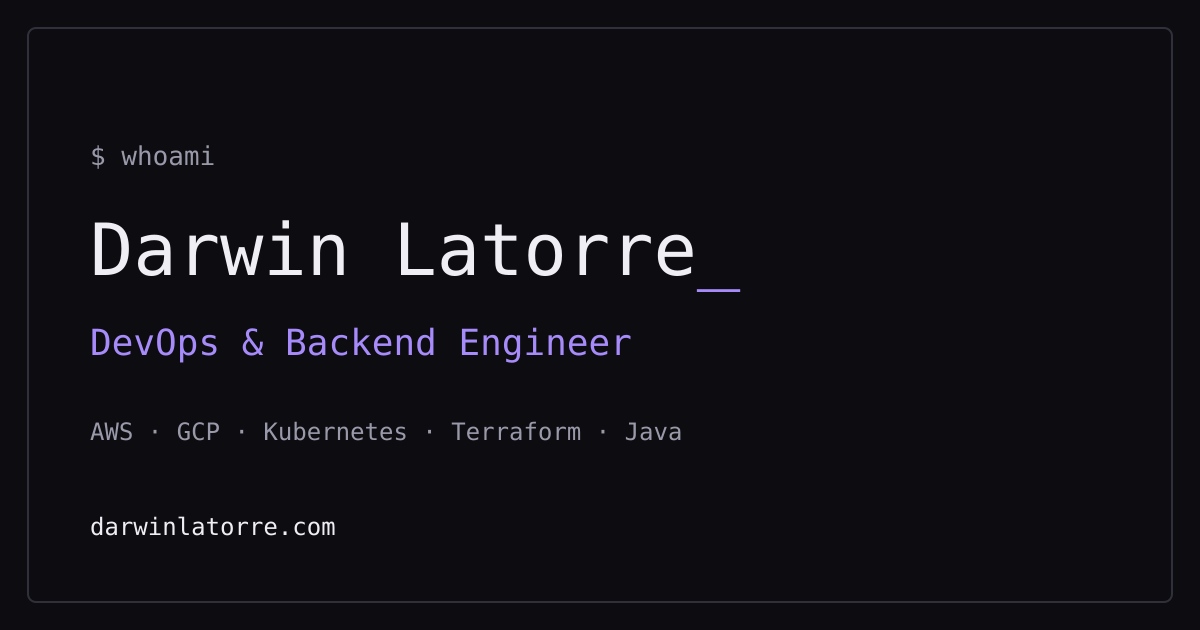
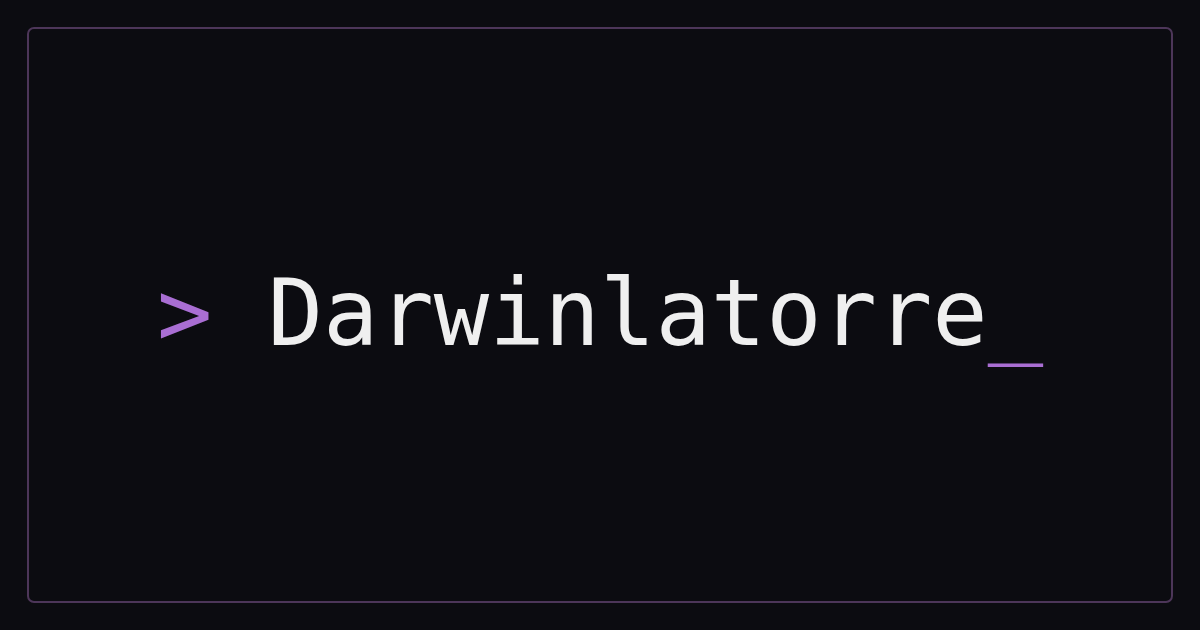
feat(seo): use the short Darwinlatorre_ social card and date the sitemap
The link preview card and its alt text now show only Darwinlatorre_, the image URL is versioned so cached previews refresh, and the sitemap includes a lastmod date.

diff --git a/src/pages/sitemap.xml.ts b/src/pages/sitemap.xml.ts
@@ -1,6 +1,10 @@
 import type { APIRoute } from 'astro';
 
-export const GET: APIRoute = ({ site }) => new Response(
-	`<?xml version="1.0" encoding="UTF-8"?>\n<urlset xmlns="http://www.sitemaps.org/schemas/sitemap/0.9"><url><loc>${new URL('/', site).href}</loc></url></urlset>`,
-	{ headers: { 'Content-Type': 'application/xml; charset=utf-8' } },
-);
+// Single-page site: one URL, dated by the build so crawlers can tell when it changed.
+export const GET: APIRoute = ({ site }) => {
+	const lastModified = new Date().toISOString().slice(0, 10);
+	return new Response(
+		`<?xml version="1.0" encoding="UTF-8"?>\n<urlset xmlns="http://www.sitemaps.org/schemas/sitemap/0.9"><url><loc>${new URL('/', site).href}</loc><lastmod>${lastModified}</lastmod></url></urlset>`,
+		{ headers: { 'Content-Type': 'application/xml; charset=utf-8' } },
+	);
+};
